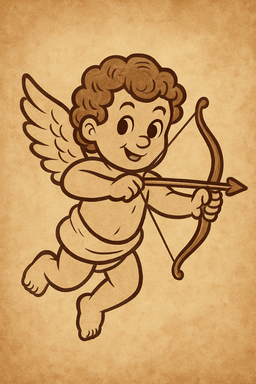
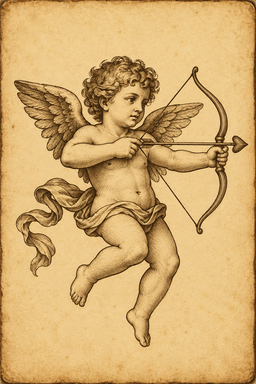
Updating card images

diff --git a/sw.js b/sw.js
@@ -1,4 +1,4 @@
-const cacheName = "card-trainer-v9";
+const cacheName = "card-trainer-v10";
 const assetsToCache = [
   "./",
   "./index.html",
